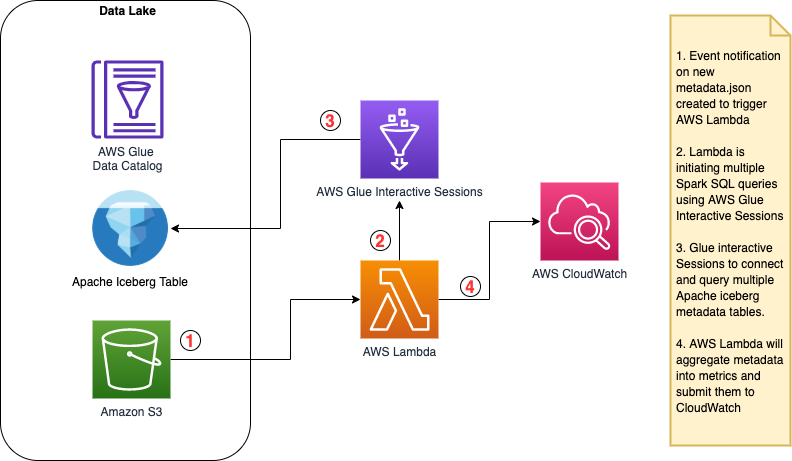
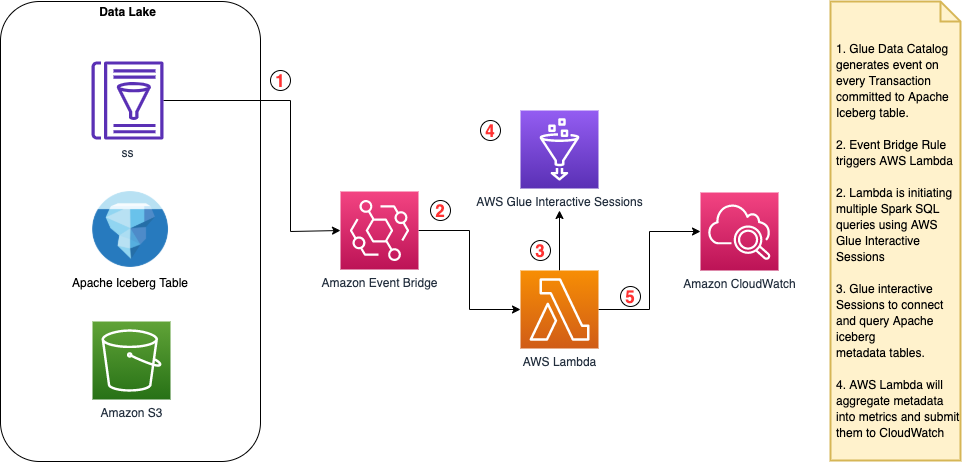
v0.0.2-preview
* Lambda changed to work with EventBridge rule
* Template.yaml updated to include Lambda resource-based policy for eventBridge
* Readme.md updated

---------

diff --git a/lambda/app.py b/lambda/app.py
@@ -14,7 +14,7 @@ logger.setLevel(logging.INFO)
 
 glue_client = boto3.client('glue')
 
-required_vars = ['DBNAME', 'TABLENAME', 'CW_NAMESPACE', 'GLUE_SERVICE_ROLE', 'SPARK_CATALOG_S3_WAREHOUSE']
+required_vars = ['CW_NAMESPACE', 'GLUE_SERVICE_ROLE', 'SPARK_CATALOG_S3_WAREHOUSE']
 for var in required_vars:
     # Retrieve the environment variable value
     if os.getenv(var) is None:
@@ -22,8 +22,6 @@ for var in required_vars:
         raise EnvironmentError(f"Required environment variable '{var}' is not set.")
     
 cw_namespace = os.environ.get('CW_NAMESPACE')
-glue_db_name = os.environ.get('DBNAME')
-glue_table_name = os.environ.get('TABLENAME')
 glue_service_role = os.environ.get('GLUE_SERVICE_ROLE')
 warehouse_path = os.environ.get('SPARK_CATALOG_S3_WAREHOUSE')
 
@@ -83,18 +81,26 @@ def wait_for_statement(session_id,statement_id,interval=1):
             logger.info(f"Statement status={status}")
             return response
         time.sleep(interval)
-        
-def parse_statement_result(data_str, columns):
-    # Split the string into lines and filter out the irrelevant ones
-    lines = data_str.split('\n')[3:-3]  # Ignore the header and footer lines
-    # Split each line into components and strip the whitespace
-    data = [line.split('|')[1:-1] for line in lines]  # Remove empty strings at start and end
-    data = [[item.strip() for item in row] for row in data]  # Strip whitespace from each item
-    df = pd.DataFrame(data, columns=columns)
-    return df
-        
 
-def send_files_metrics(snapshot,session_id):
+    
+    
+def parse_spark_show_output(output):
+    lines = output.strip().split('\n')
+    header = lines[1]  # Column names are typically in the second line
+    columns = [col.strip() for col in header.split('|') if col.strip()]  # Clean and split by '|'
+
+    data = []
+    # Start reading data from the third line and skip the last line which is a border
+    for row in lines[3:-1]:
+        # Remove border and split
+        row_data = [cell.strip() for cell in row.split('|') if cell.strip()]
+        if row_data:
+            data.append(row_data)
+
+    # Create DataFrame
+    return pd.DataFrame(data, columns=columns)   
+
+def send_files_metrics(glue_db_name, glue_table_name, snapshot,session_id):
     sql_stmt = f"select file_path,record_count,file_size_in_bytes from glue_catalog.{glue_db_name}.{glue_table_name}.files"    
     run_stmt_response = glue_client.run_statement(
         SessionId=session_id,
@@ -104,15 +110,13 @@ def send_files_metrics(snapshot,session_id):
     logger.info(f"select files statement_id={stmt_id}")
     stmt_response = wait_for_statement(session_id, run_stmt_response["Id"])
     data_str = stmt_response["Statement"]["Output"]["Data"]["TextPlain"]
-    files_metrics_columns = ["file_path","record_count", "file_size_in_bytes"]
-    df = parse_statement_result(data_str,files_metrics_columns)
-    
+    logger.info(stmt_response)
+    df = parse_spark_show_output(data_str)
     file_metrics = {
         "avg_record_count": df["record_count"].astype(int).mean().astype(int),
         "max_record_count": df["record_count"].astype(int).max(),
         "min_record_count": df["record_count"].astype(int).min(),
         "deviation_record_count": df['record_count'].astype(int).std().round(2),
-        "skew_record_count": df['record_count'].astype(int).skew().round(2),
         "avg_file_size": df['file_size_in_bytes'].astype(int).mean().astype(int),
         "max_file_size": df['file_size_in_bytes'].astype(int).max(),
         "min_file_size": df['file_size_in_bytes'].astype(int).min(),
@@ -135,7 +139,7 @@ def send_files_metrics(snapshot,session_id):
         )
     
 
-def send_partition_metrics(snapshot,session_id):
+def send_partition_metrics(glue_db_name, glue_table_name, snapshot,session_id):
     sql_stmt = f"select partition,record_count,file_count from glue_catalog.{glue_db_name}.{glue_table_name}.partitions"    
     run_stmt_response = glue_client.run_statement(
         SessionId=session_id,
@@ -146,8 +150,12 @@ def send_partition_metrics(snapshot,session_id):
     logger.info(f"send_partition_metrics() -> statement_id={stmt_id}")
     stmt_response = wait_for_statement(session_id, stmt_id)
     data_str = stmt_response["Statement"]["Output"]["Data"]["TextPlain"]
-    partition_metrics_columns = ['partition', 'record_count', 'file_count']
-    df = parse_statement_result(data_str,partition_metrics_columns)
+
+    if data_str == "":
+        logger.info("No partitions found")
+        return
+    
+    df = parse_spark_show_output(data_str)
     partition_metrics = {
         "avg_record_count": df["record_count"].astype(int).mean().astype(int),
         "max_record_count": df["record_count"].astype(int).max(),
@@ -249,9 +257,11 @@ def dt_to_ts(dt_str):
     timestamp_seconds = dt_obj.timestamp()
     return int(timestamp_seconds * 1000)
 
-def send_snapshot_metrics(snapshot_id, session_id):
+
+def send_snapshot_metrics(glue_db_name, glue_table_name, snapshot_id, session_id):
     logger.info("send_snapshot_metrics")
     sql_stmt = f"select committed_at,snapshot_id,operation,summary from glue_catalog.{glue_db_name}.{glue_table_name}.snapshots where snapshot_id={snapshot_id}"
+    logger.debug(sql_stmt)
     run_stmt_response = glue_client.run_statement(
         SessionId=session_id,
         Code=f"df=spark.sql(\"{sql_stmt}\");json_rdd=df.toJSON();json_strings=json_rdd.collect();print(json_strings)"
@@ -288,20 +298,38 @@ def send_snapshot_metrics(snapshot_id, session_id):
             timestamp = timestamp_ms,
         ) 
 
+# check if glue table is of iceberg format, return boolean
+def check_table_is_of_iceberg_format(event):
+    response = glue_client.get_table(
+        DatabaseName=event["detail"]["databaseName"],
+        Name=event["detail"]["tableName"],
+    )
+    try:
+        return response["Table"]["Parameters"]["table_type"] == "ICEBERG"
+    except KeyError:
+        logger.warning("check_table_is_of_iceberg_format() -> table_type is missing")
+        return False
+    
 
 def lambda_handler(event, context):
-    log_format = f"[{context.aws_request_id}:%(asctime)s.%(msecs)03d] %(message)s"
-    logging.basicConfig(format=log_format, datefmt='%Y-%m-%d %H:%M:%S', level=logging.INFO)
+    log_format = f"[{context.aws_request_id}:%(message)s"
+    logging.basicConfig(format=log_format, level=logging.INFO)
     
+    # Ensure Table is of Iceberg format.
+    if not check_table_is_of_iceberg_format(event):
+        logger.info("Table is not of Iceberg format, skipping metrics generation")
+        return
     
-    catalog = GlueCatalog("default")
+    glue_db_name = event["detail"]["databaseName"]
+    glue_table_name =  event["detail"]["tableName"]
+    
+    catalog = GlueCatalog(glue_db_name)
     table = catalog.load_table((glue_db_name, glue_table_name))
     logger.info(f"current snapshot id={table.metadata.current_snapshot_id}")
     snapshot = table.metadata.snapshot_by_id(table.metadata.current_snapshot_id)
-    
     logger.info("Using glue IS to produce metrics")
     session_id = create_or_reuse_glue_session()
     
-    send_snapshot_metrics(table.metadata.current_snapshot_id, session_id)
-    send_partition_metrics(snapshot,session_id)
-    send_files_metrics(snapshot,session_id)
+    send_snapshot_metrics(glue_db_name, glue_table_name, table.metadata.current_snapshot_id, session_id)
+    send_partition_metrics(glue_db_name, glue_table_name, snapshot,session_id)
+    send_files_metrics(glue_db_name, glue_table_name, snapshot,session_id)

diff --git a/README.md b/README.md
@@ -1,6 +1,6 @@
 ## Monitoring Apache Iceberg Table metadata layer using AWS Lambda, AWS Glue and AWS CloudWatch
 
-This repository provides you with sample code on how to collect metrics of an existing Apache Iceberg table managed in Amazon S3. The code consists of AWS Lambda deployment package that collects and submits metrics into AWS CloudWatch. Repository also includes helper scripts for deploying CloudWatch monitoring dashboard to visualize collected metrics.
+This repository provides you with sample code that collects metrics of existing Apache Iceberg tables managed in your Amazon S3 and catalogued to AWS Glue Data Catalog. The code consists of AWS Lambda deployment package that collects and submits metrics into AWS CloudWatch. Repository also includes helper script for deploying CloudWatch monitoring dashboard to visualize collected metrics.
 
 ### Table of Contents
 - [Technical implementation](#technical-implementation)
@@ -20,9 +20,9 @@ This repository provides you with sample code on how to collect metrics of an ex
 
 ![Architectural diagram of the solution](assets/arch.png)
 
-* AWS Lambda triggered on every Iceberg snapshot creation to collect and send metrics to CloudWatch. This achieved with [S3 event notification](https://docs.aws.amazon.com/AmazonS3/latest/userguide/EventNotifications.html). See [Setting up S3 event notification](#3-setting-up-s3-event-notification) section.
+* Amazon EventBridge rule triggers AWS Lambda on every event of  *Glue Data Catalog Table State Change*. Event triggered every time transaction committed to Apache Iceberg Table.
+* Triggered AWS Lambda code aggregates information retrieved from metadata tables to create [metrics](#metrics-collected) and submits those to Amazon CloudWatch.
 * AWS Lambda code includes `pyiceberg` library and [AWS Glue interactive Sessions](https://docs.aws.amazon.com/glue/latest/dg/interactive-sessions-overview.html) with minimal compute to read `snapshots`, `partitions` and `files` Apache Iceberg metadata tables with Apache Spark.
-* AWS Lambda code aggregates information retrieved from metadata tables to create metrics and submits those to AWS CloudWatch.
 
 
 ### Metrics collected
@@ -58,7 +58,6 @@ This repository provides you with sample code on how to collect metrics of an ex
 * files.max_record_count
 * files.min_record_count
 * files.deviation_record_count
-* files.skew_record_count
 * files.avg_file_size
 * files.max_file_size
 * files.min_file_size
@@ -112,66 +111,58 @@ sam deploy --guided
 ##### Parameters
 
 - `CWNamespace` - A namespace is a container for CloudWatch metrics.
-- `DBName` - Glue Data Catalog Database Name.
-- `TableName` - Apache Iceberg Table name as it appears in the Glue Data Catalog.
 - `GlueServiceRole` - AWS Glue Role arn you created [earlier](#configuring-iam-permissions-for-aws-glue).
 - `Warehouse` - Required catalog property to determine the root path of the data warehouse on S3. This can be any path on your S3 bucket. Not critical for the solution.
-- `IcebergTableS3BucketName` - S3 bucket name is required to allow S3 bucket event notification. SAM will add resource-based permission to allow S3 bucket to invoke AWS Lambda.
 
 
-#### 3. Setting up S3 event notification
+#### 3. Configure EventBridge Trigger
 
-You need to setup an automatic trigger that will activate AWS Lambda metrics collection on every Apache Iceberg commit. This solution is relying on S3 event notification feature to trigger AWS Lambda every time new `metadata.json` is written to S3 `metadata` folder of the table.
-
-You can follow AWS Documentation on how to [enable and configuring event notifications using the Amazon S3 console](https://docs.aws.amazon.com/AmazonS3/latest/userguide/enable-event-notifications.html).
-
-or use the Python Boto3 sample code below. Replace with your bucket name and path to metadata.
+In this section you will configure EventBridge Rule that will trigger Lambda function on every transaction commit to Apache Iceberg table.
+Default rule listens to `Glue Data Catalog Table State Change` event from all the tables in Glue Data Catalog catalog. Lambda code knows to skip non-iceberg tables.
+If you want to scope triggers to specific Iceberg Tables and not collecting metrics from all of them you can uncomment `glue_table_names = ["<<REPLACE TABLE 1>>", "<<REPLACE TABLE 1>>"]` and add relevant table names.
 
 ```python
 import boto3
-s3_client = boto3.client('s3')
-lambda_arn = "<REPLACE WITH YOUR ARN>"
-bucket_name = "<REPLACE WITH YOUR S3 BUCKET NAME>"
-path_to_metadata_folder = "<REPLACE WITH YOUR S3 PATH>"
+import json
 
-notification_configuration = {
-    'LambdaFunctionConfigurations': [
+# Initialize a boto3 client
+lambda_client = boto3.client('lambda')
+events_client = boto3.client('events')
+
+# Parameters
+lambda_function_arn = '<<REPLACE WITH LAMBDA FUNCTION ARN>>'
+glue_table_names = None
+# glue_table_names = ["<<REPLACE TABLE 1>>", "<<REPLACE TABLE 1>>"]
+
+# Create EventBridge Rule
+event_pattern = {
+    "source": ["aws.glue"],
+    "detail-type": ["Glue Data Catalog Table State Change"]
+}
+
+if glue_table_names:
+    event_pattern
+    event_pattern["detail"] = {
+        "tableName":  glue_table_names   
+    }
+event_pattern_dump = json.dumps(event_pattern)
+rule_response = events_client.put_rule(
+    Name='IcebergTablesUpdateRule',
+    EventPattern=event_pattern_dump,
+    State='ENABLED'
+)
+# Add Lambda as a target to the EventBridge Rule
+events_client.put_targets(
+    Rule='IcebergTablesUpdateRule',
+    Targets=[
         {
-            'LambdaFunctionArn': lambda_arn,
-            'Events': [
-                's3:ObjectCreated:Put'
-            ],
-            'Filter': {
-                'Key': {
-                    'FilterRules': [
-                        {
-                            'Name': 'Prefix',
-                            'Value': path_to_metadata_folder
-                        },
-                        {
-                            'Name': 'Suffix',
-                            'Value': '.json'
-                        }
-                    ]
-                }
-            }
+            'Id': '1',
+            'Arn': lambda_function_arn
         }
     ]
-}
-response = s3_client.put_bucket_notification_configuration(
-    Bucket=bucket_name,
-    NotificationConfiguration=notification_configuration
 )
-if response['ResponseMetadata']['HTTPStatusCode'] == 200:
-    print("Success")
-else:
-    print("Something went wrong")
-
+print(f"Pattern updated = {event_pattern_dump}")
 ```
-
-The final result should look like this
-
-![S3 to AWS Lambda trigger example](assets/trigger.png)
 
 #### 4. (Optional) Create CloudWatch Dashboard
 Once your Iceberg Table metrics are submitted to CloudWatch you can start using them to monitor and create alarms. CloudWatch also let you visualize metrics using CloudWatch Dashboards.
@@ -255,7 +246,6 @@ https://docs.docker.com/get-docker/
 
 1. Delete AWS Lambda `sam delete`.
 2. Delete CloudWatch Dashboard.
-3. Remove S3 event notification.
 
 ## Security
 
